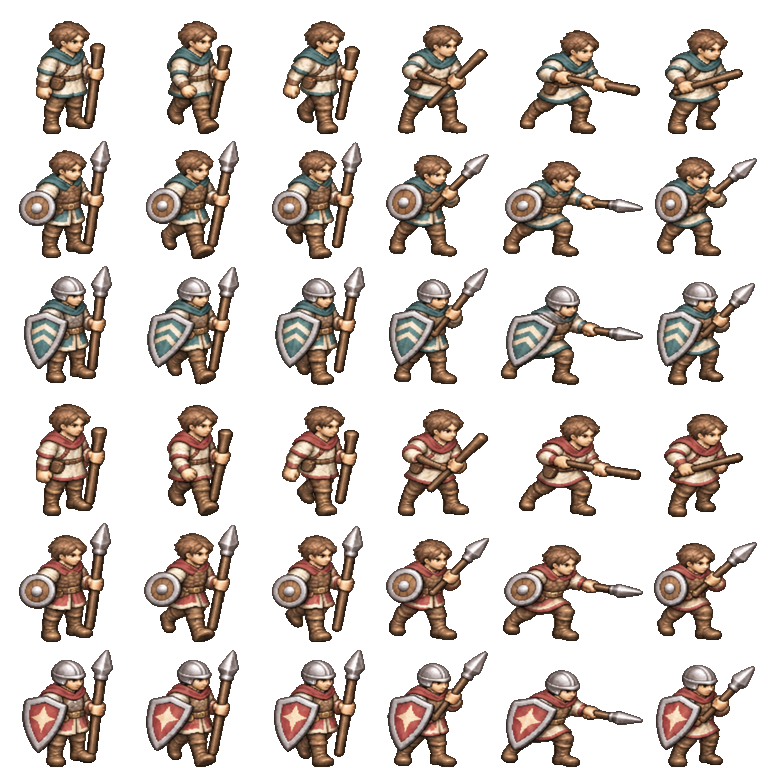
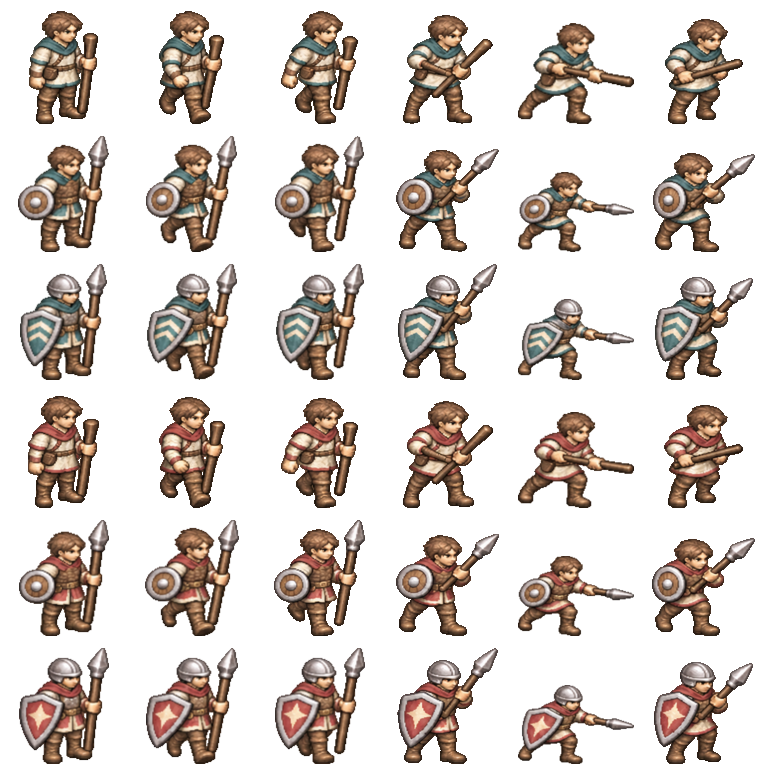
Rebuild character atlas frame boundaries

diff --git a/games/meddle/game.js b/games/meddle/game.js
@@ -61,8 +61,8 @@ import { musicRequestCurrent } from "./music-state.mjs?v=20261107-1";
   const mapSizeDescription=size=>`${size}×${size} map · ${size===34?"standard walker speed":size===54?"walkers move 10% slower":"walkers move 20% slower"}`;
   const saveSessionId=globalThis.crypto?.randomUUID?.()||`${Date.now()}-${Math.random()}`;
   const terrainAtlas=new Image(),terrainPatterns={};terrainAtlas.src="./assets/terrain-textures-v1.png";terrainAtlas.addEventListener("load",()=>{const half=terrainAtlas.naturalWidth/2;for(const [name,qx,qy] of [["grass",0,0],["earth",half,0],["water",0,half],["bog",half,half]]){const tile=document.createElement("canvas");tile.width=tile.height=256;tile.getContext("2d").drawImage(terrainAtlas,qx,qy,half,half,0,0,256,256);terrainPatterns[name]=ctx.createPattern(tile,"repeat");}});
-  const followerAnimationSprites=new Image();followerAnimationSprites.src="./assets/follower-animations.png?v=5";
-  const championAnimationSprites=new Image();championAnimationSprites.src="./assets/champion-animations.png?v=5";
+  const followerAnimationSprites=new Image();followerAnimationSprites.src="./assets/follower-animations.png?v=6";
+  const championAnimationSprites=new Image();championAnimationSprites.src="./assets/champion-animations.png?v=6";
   const frontierResourceSprites=Object.fromEntries(["forest","mine","farm"].map(type=>{const image=new Image();image.src=`./assets/frontier-${type}.webp`;return[type,image];}));
   const buildingSprites=Object.fromEntries(["player","rival","rival2"].map(faction=>[faction,Array.from({length:4},(_,level)=>Array.from({length:4},(_,rotation)=>{const image=new Image();image.src=`./assets/building-${level+1}-${rotation}${faction==="player"?"":"-rival"}.png?v=8`;return image;}))]));
   // Each source render is centered on its plot's diamond, rather than pinned to

diff --git a/games/meddle/index.html b/games/meddle/index.html
@@ -118,6 +118,6 @@
   <dialog id="events-dialog" class="modal"><div class="modal-card events-card"><p class="eyebrow">Chronicle</p><h2>Important events</h2><ol id="modal-event-history" class="event-history modal-event-history" aria-label="Important event history"></ol><button id="close-events" type="button">Return to the world</button></div></dialog>
   <dialog id="world-dialog" class="modal"><div class="modal-card world-card"><p class="eyebrow">World rules</p><h2 id="world-details-title">Verdant Reach</h2><p id="world-details-meta" class="world-details-meta"></p><p id="world-details-copy"></p><button id="close-world-details" type="button">Return to the world</button></div></dialog>
   <dialog id="outcome" class="modal"><div class="modal-card"><p id="outcome-kicker" class="eyebrow">The world remembers</p><h2 id="outcome-title">Victory</h2><p id="outcome-copy"></p><p id="outcome-save-warning" class="save-warning outcome-save-warning" hidden></p><button id="play-again" type="button">Shape another world</button><button id="outcome-continue-unsaved" type="button" hidden>Continue without saving</button><button id="outcome-reload" type="button" hidden>Reload newer saved world</button></div></dialog>
-  <script type="module" src="game.js?v=20261108-211"></script>
+  <script type="module" src="game.js?v=20261108-212"></script>
 </body>
 </html>
